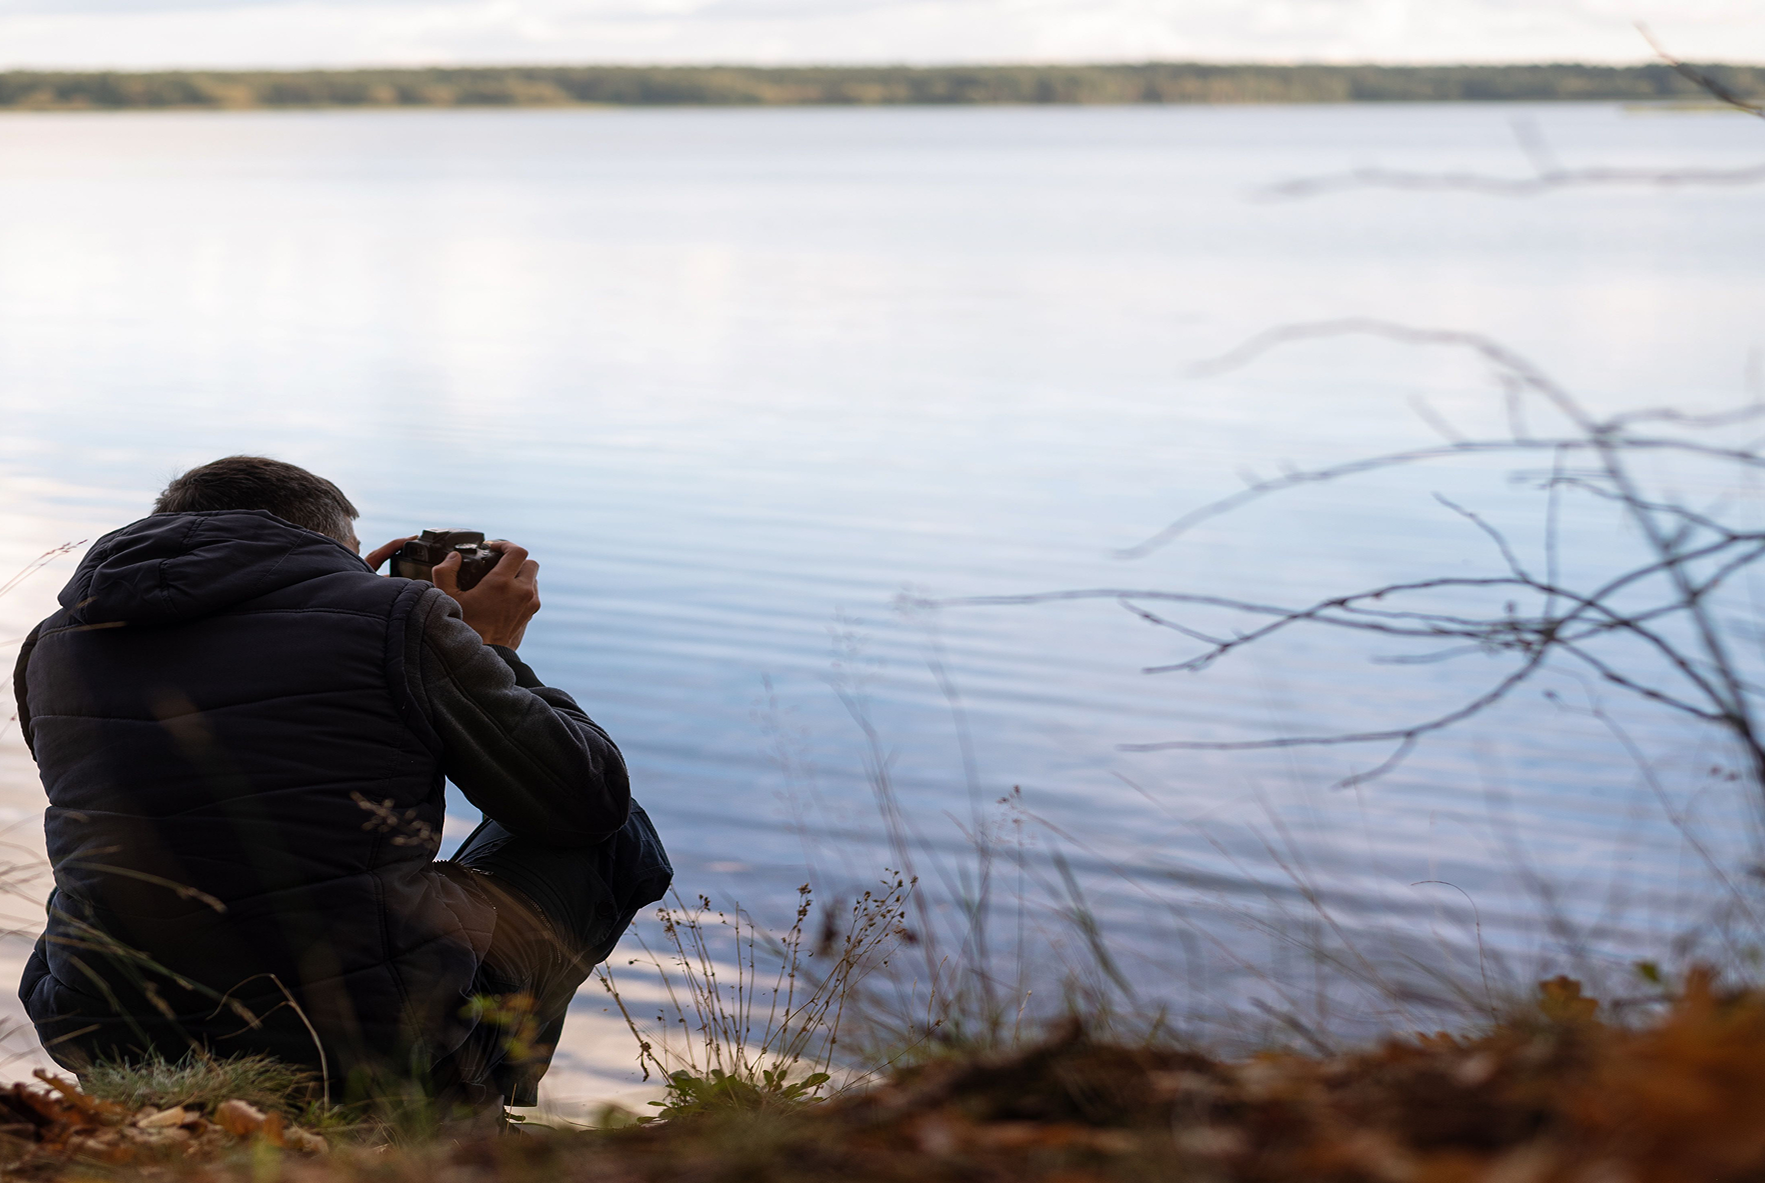
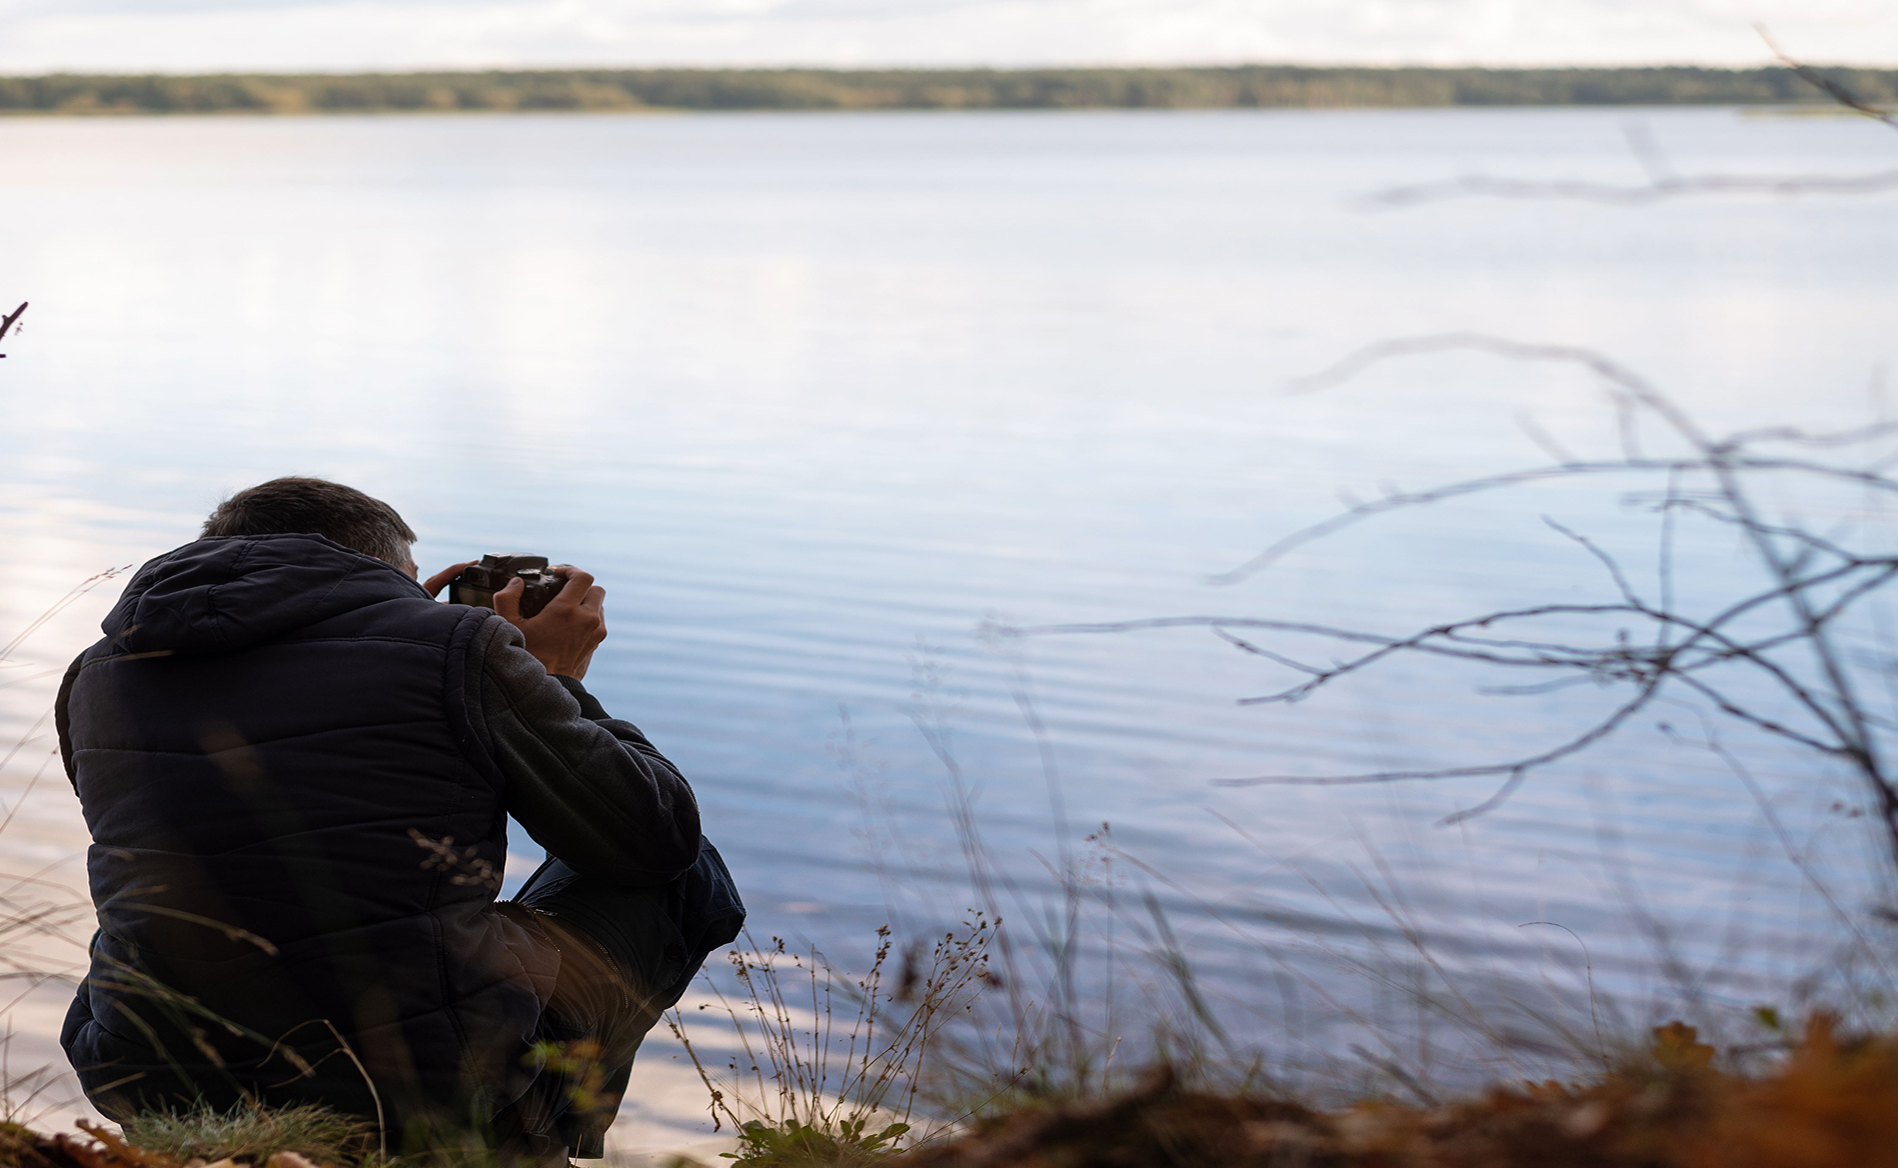
v3

diff --git a/index.html b/index.html
@@ -4,6 +4,7 @@
     <meta charset="UTF-8">
     <meta name="viewport" content="width=device-width, initial-scale=1.0">
     <title>Clara Lenoir Photographe</title>
+    <link rel="stylesheet" href="https://phosphoricons.com?q=user">
     <link rel="stylesheet" href="style.css">
 </head>
 <body>
@@ -23,17 +24,24 @@
     </header>
 
     <section class="bg-hero">
-        <div class="container height100">
-            <h1>Clara Lenoir Photographie</h1>
-            <h2>Capturer l'émotion, révéler la beauté du moment</h2>
-            <div class="height100">
-                <div class="height100 flex column align-center justify-center">
-                    <a class="btn1" href="">Réserver une séance</a>
-                    <a class="btn2 mt-16" href="">Voir mes réalisations</a>
+        <div class="height100 container">
+            <div class="height100 flex column justify-center end">
+                <div class="w50">
+                    <div class="flex height">
+                        <h1>Clara Lenoir Photographie</h1>
+                    </div>
+                    <div>
+                        <h2 class="mt-16 font24 txtleft text-primary1">Capturer l'émotion, révéler la beauté du moment</h2>
+                    </div>
+                    <div class=" flex gap16">
+                        <a class="btn2" href="">Voir mes réalisations</a>
+                        <a class="btn1" href="">Réserver une séance</a>  
+                    </div>
                 </div>
             </div>
         </div>
     </section>
+
     <section class="bg-color">
         <div class="flex pt-32 pb-32 around container">
             <div class="w20 flex justify-center">
@@ -54,29 +62,30 @@
             </div>
         </div>
     </section>
+
     <section id="Prestation" class="container">
         <h2>Prestation</h2>
-        <div class="flex between align-center">
-            <img width=300px height=300px src="./images/nathanael-desmeules-r5GDJ0V_4D8-unsplash.jpg" alt="photo motocross freestyle">
+        <div class="flex around align-center">
+            <img src="./images/nathanael-desmeules-r5GDJ0V_4D8-unsplash 1.png" alt="photo motocross freestyle">
             <div class="w45">
                 <h3>Evénements et reportages</h3>
-                <p>Des photos spontanées et authentiques pour immortaliser vos événements
+                <p class="mt-16">Des photos spontanées et authentiques pour immortaliser vos événements
 artistiques, sportifs ou familiaux avec sensibilité et créativité.</p>
             </div>  
         </div>
-        <div class="flex between align-center">
+        <div class="flex around align-center mt-32">
             <div class="w45">
             <h3> Photographie de mariage</h3>
-            <p>Des clichés sincères et élégants qui retracent avec authenticité chaque instant de
+            <p class="mt-16">Des clichés sincères et élégants qui retracent avec authenticité chaque instant de
 votre journée exceptionnelle.</p>
             </div>  
-            <img width=300px height=300px src="./images/alvaro-cvg-mW8IZdX7n8E-unsplash.jpg" alt="Photo de mariage">
+            <img src="./images/alvaro-cvg-mW8IZdX7n8E-unsplash 1.png" alt="Photo de mariage">
         </div>
-            <div class="flex between align-center">
-                <img width=300px height=300px src="./images/colin-lloyd-UOBgu1hEj0o-unsplash.jpg" alt="Photo portrait">
+            <div class="flex between align-center mt-32">
+                <img src="./images/colin-lloyd-UOBgu1hEj0o-unsplash 1.png" alt="Photo portrait">
                 <div class="w45">
                     <h3>Shooting professionnel</h3>
-                    <p> Des photos de qualité pour vos profils, sites web et supports de communication.
+                    <p class="mt-16"> Des photos de qualité pour vos profils, sites web et supports de communication.
 Mettez votre image au service de vos projets.</p>
             </div>  
         </div>
@@ -95,5 +104,32 @@ Mettez votre image au service de vos projets.</p>
         </div>
     </section>
     
+    <section class="container">
+        <h2>Témoignages Clients</h2>
+        <div class="flex between mt-32">
+            <div class=" w30 card flex align-center justify-center">
+                <p class="mt-16">Prenon: Amélie</p>
+                <p class="mt-16">Type de prestation: Mariage</p>
+                <p class="mt-16">Avis: Les photos de notre mariage sont magnifiques ! Clara a su saisir les émotions avec
+beaucoup de sensibilité. Chaque image raconte une histoire.</p>
+            </div>
+            <div class="w30 card flex align-center justify-center">
+                <p class="mt-16">Prenom: Julien</p>
+                <p class="mt-16">Type Prestation: Portrait professionne</p>
+                <p class="mt-16">Avis: Un super moment passé en séance ! Clara met à l’aise et sait diriger sans forcer.
+Résultat : des portraits naturels et percutants.</p>
+            </div>
+            <div class="w30 card flex align-center justify-center">
+                <p class="mt-16">Prenom: Nadia</p>
+                <p class="mt-16">Type Prestation: Shooting famille</p>
+                <p class="mt-16">Avis: Nous avons adoré la séance en extérieur. Les enfants se sont amusés et les photos
+sont pleines de vie et d’émotion.</p>
+            </div>
+        </div>
+    </section>
+
+    <footer>
+
+    </footer>
 </body>
 </html>

diff --git a/style.css b/style.css
@@ -1,22 +1,11 @@
 /*----- Import -----*/
 
 /*----- RESET -----*/
+
 *{
     margin: 0;
     padding: 0;
     box-sizing: border-box;
-}
-
-:root{
-    --primary1: ;
-    --primary2:  ;
-    --primary3:  ;
-    --bdrad1: ;
-    --bdrad2: ;
-    --height1: ;
-    --height2: ;
-    --width1: ;
-    --width2: ;
 }
 
 /*----- Selecteur -----*/
@@ -30,20 +19,17 @@ a{
 }
 
 h1{
-    text-align: center;
+    font-size: 48px;
     color: #3E2C23;
+}
+h2{
+    margin-top: 32px;
+    margin-bottom: 32px;
+    text-align: center;
+    font-size: 48px;
 }
 
 /*----- Color -----*/
-
-.primary1{
- 
-}
-
-.primary2{
-  
-}
-
 
 /*----- Text Color -----*/
 
@@ -55,7 +41,7 @@ h1{
     color: black;
 }
 
-.text.primary1{
+.text-primary1{
     color: #3E2C23;
 }
 
@@ -86,6 +72,9 @@ h1{
     text-decoration: none;
 }
 
+.txtleft{
+    text-align: left;
+}
 /*-----Background-----*/
 
 .bg-color{
@@ -99,17 +88,25 @@ h1{
     background-position: left bottom;
 }
 
+.card{
+    background-color: white;
+    border: solid 2px white ;
+    padding: 8px 16px;
+    border-radius: 25px;
+    box-shadow: 0 0 15px 5px;
+}
+
 /*----- Bouton -----*/
 
 .btn1{
     color: white;
     background-color: #3E2C23;
-    height: 40px;
+    height: 50px;
     width: 200px;
     border-radius: 15px;
-    display: flex;
-    align-items: center;
-    justify-content: center
+    display: inline-block;
+    text-align: center;
+    padding: 16px;
 }
 
  .btn2{
@@ -118,17 +115,10 @@ h1{
     height: 40px;
     width: 200px;
     border-radius: 15px;
-    display: flex;
-    align-items: center;
-    justify-content: center
+    display: inline-block;
+    text-align: center;
+    padding: 8px;
  }
-
-.btn3{
-    background-color: ;
-    height: ;
-    width: ;
-    border-radius: ; 
-}
 
 /*----- Flex -----*/
 
@@ -149,8 +139,8 @@ h1{
     justify-content: center;
 }
 
-.flex-end{
-    justify-content: flex-end;
+.end{
+    align-items: flex-end;
 }
 
 
@@ -299,6 +289,7 @@ h1{
 hover{
   opacity:1;
 }
+
 .a-img-txt:hover .a-img{
   filter:invert(0);
 }
